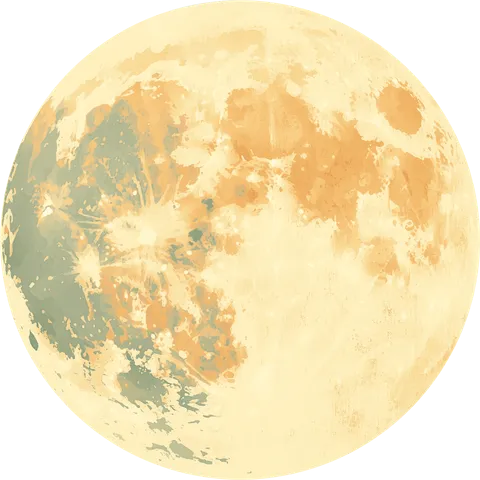
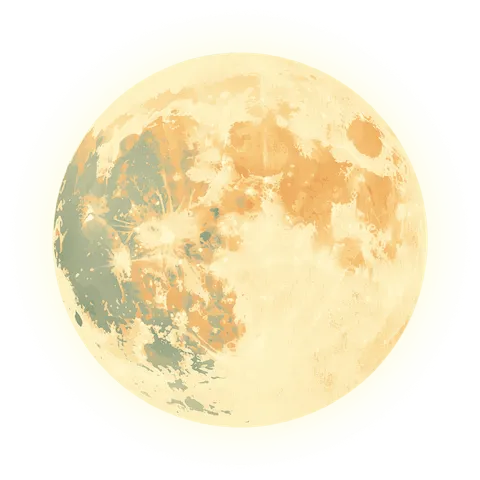
New 3D scene code which is cleaner and more focused

diff --git a/src/js/threeSkyScene.js b/src/js/threeSkyScene.js
@@ -1,0 +1,203 @@
+import * as THREE from 'three';
+import { EffectComposer } from 'three/examples/jsm/postprocessing/EffectComposer';
+import { RenderPass } from 'three/examples/jsm/postprocessing/RenderPass';
+import { UnrealBloomPass } from 'three/examples/jsm/postprocessing/UnrealBloomPass';
+import getDeviceInfo from './utils/deviceUtils';
+import { requestDeviceOrientation } from './utils/handleIosPermissions';
+
+function setupPostProcessing(renderer, scene, camera) {
+    const composer = new EffectComposer(renderer);
+    composer.addPass(new RenderPass(scene, camera));
+
+    const bloomPass = new UnrealBloomPass(
+        new THREE.Vector2(window.innerWidth, window.innerHeight),
+        0.4,
+        1,
+        0.75
+    );
+    composer.addPass(bloomPass);
+
+    return composer;
+}
+
+const cameraParams = {
+    desktop: {
+        fov: 75,
+        position: { x: 0, y: 1.5, z: 0 },
+        lookAt: { x: 0, y: 0.5, z: -50 },
+        maxTiltUp: THREE.MathUtils.degToRad(15), // ~20 degrees up
+        maxTiltDown: THREE.MathUtils.degToRad(-30)
+    },
+    mobile: {
+        fov: 60,
+        position: { x: 0, y: 4.5, z: 0 },
+        lookAt: { x: 0, y: 8, z: -40 },
+        maxTiltUp: THREE.MathUtils.degToRad(15), // ~22.5 degrees up
+        maxTiltDown: THREE.MathUtils.degToRad(-30) // ~22.5 degrees down
+    },
+};
+
+const objectParams = {
+    desktop: {
+        moon: { radius: 5 },
+        starrySky: { radius: 500 },
+    },
+    mobile: {
+        moon: { radius: 3.5 },
+        starrySky: { radius: 400 },
+    },
+};
+
+function addLighting(scene) {
+    const sun = new THREE.DirectionalLight(0xffd27f, 2);
+    sun.position.set(50, 100, -50);
+    sun.target.position.set(100, 50, -180);
+    sun.castShadow = true;
+
+    sun.shadow.mapSize.width = 2048;
+    sun.shadow.mapSize.height = 2048;
+    sun.shadow.camera.near = 0.5;
+    sun.shadow.camera.far = 500;
+    sun.shadow.bias = -0.0001;
+
+    scene.add(sun);
+    scene.add(sun.target);
+
+    const ambientLight = new THREE.AmbientLight(0xdfdfdf, 0.36);
+    scene.add(ambientLight);
+
+    const hemiLight = new THREE.HemisphereLight(0xffffcc, 0xdfdfdf, 0.8);
+    scene.add(hemiLight);
+}
+
+function loadStarrySky(isMobile) {
+    const skyRadius = isMobile ? objectParams.mobile.starrySky.radius : objectParams.desktop.starrySky.radius;
+    const geometry = new THREE.SphereGeometry(skyRadius, 64, 64);
+    const textureLoader = new THREE.TextureLoader();
+
+    const starrySkyTexture = textureLoader.load(new URL('../assets/images/starry-sky-background-original.webp', import.meta.url).href);
+    starrySkyTexture.encoding = THREE.sRGBEncoding;
+    const material = new THREE.MeshBasicMaterial({
+        map: starrySkyTexture,
+        side: THREE.BackSide,
+        toneMapped: false,
+    });
+
+    return new THREE.Mesh(geometry, material);
+}
+
+function loadMoon(isMobile) {
+    const moonRadius = isMobile ? objectParams.mobile.moon.radius : objectParams.desktop.moon.radius;
+    const geometry = new THREE.SphereGeometry(moonRadius, 64, 64);
+
+    const textureLoader = new THREE.TextureLoader();
+    const moonTexture = textureLoader.load(new URL('../assets/images/moon.jpg', import.meta.url).href);
+    moonTexture.encoding = THREE.sRGBEncoding;
+    moonTexture.anisotropy = 16;
+    const material = new THREE.MeshStandardMaterial({
+        map: moonTexture,
+        roughness: 0.8,
+        metalness: 0,
+        emissive: 0xFFF6A4,
+        emissiveIntensity: 0.5,
+    });
+
+    const moon = new THREE.Mesh(geometry, material);
+    moon.position.set(20, 10, -50);
+    moon.receiveShadow = true;
+    return moon;
+}
+
+export default function threeSkyScene(app, isMobile) {
+    const renderer = new THREE.WebGLRenderer({ antialias: true });
+    renderer.setSize(window.innerWidth, window.innerHeight);
+    renderer.setPixelRatio(window.devicePixelRatio);
+    renderer.toneMapping = THREE.ACESFilmicToneMapping;
+    renderer.toneMappingExposure = 0.25;
+    app.appendChild(renderer.domElement);
+
+    const scene = new THREE.Scene();
+    const camera = new THREE.PerspectiveCamera(
+        isMobile ? cameraParams.mobile.fov : cameraParams.desktop.fov,
+        window.innerWidth / window.innerHeight,
+        0.1,
+        1000
+    );
+
+    camera.position.set(
+        isMobile ? cameraParams.mobile.position.x : cameraParams.desktop.position.x,
+        isMobile ? cameraParams.mobile.position.y : cameraParams.desktop.position.y,
+        isMobile ? cameraParams.mobile.position.z : cameraParams.desktop.position.z
+    );
+
+    addLighting(scene);
+    const starrySky = loadStarrySky(isMobile);
+    const moon = loadMoon(isMobile);
+    scene.add(starrySky);
+    scene.add(moon);
+
+    const maxTiltUp = isMobile ? cameraParams.mobile.maxTiltUp : cameraParams.desktop.maxTiltUp;
+    const maxTiltDown = isMobile ? cameraParams.mobile.maxTiltDown : cameraParams.desktop.maxTiltDown;
+
+    let targetRotationX = 0;
+    let targetRotationY = 0;
+
+    const limitVerticalTilt = () => {
+        if (targetRotationX > maxTiltUp) targetRotationX = maxTiltUp;
+        if (targetRotationX < maxTiltDown) targetRotationX = maxTiltDown;
+    };
+
+    if (isMobile) {
+        window.addEventListener('deviceorientation', (event) => {
+            if (event.alpha && event.beta && event.gamma) {
+                targetRotationX = THREE.MathUtils.degToRad(event.beta - 90);
+                targetRotationY = THREE.MathUtils.degToRad(event.alpha);
+                limitVerticalTilt();
+            }
+        });
+
+        // Add gesture handling
+        let lastTouchX = 0;
+        let lastTouchY = 0;
+        window.addEventListener('touchstart', (event) => {
+            if (event.touches.length === 1) {
+                lastTouchX = event.touches[0].clientX;
+                lastTouchY = event.touches[0].clientY;
+            }
+        });
+        window.addEventListener('touchmove', (event) => {
+            if (event.touches.length === 1) {
+                const deltaX = event.touches[0].clientX - lastTouchX;
+                const deltaY = event.touches[0].clientY - lastTouchY;
+
+                targetRotationY += deltaX * 0.005;
+                targetRotationX += deltaY * 0.005;
+                limitVerticalTilt();
+
+                lastTouchX = event.touches[0].clientX;
+                lastTouchY = event.touches[0].clientY;
+            }
+        });
+
+        requestDeviceOrientation(() => {
+            window.addEventListener('deviceorientation', handleDeviceOrientation);
+        });
+    } else {
+        window.addEventListener('mousemove', (event) => {
+            targetRotationY = (event.clientX / window.innerWidth - 0.5) * Math.PI * 2;
+            targetRotationX = (event.clientY / window.innerHeight - 0.5) * Math.PI;
+            limitVerticalTilt();
+        });
+    }
+
+    const composer = setupPostProcessing(renderer, scene, camera);
+
+    function animate() {
+        camera.rotation.x += (targetRotationX - camera.rotation.x) * 0.075;
+        camera.rotation.y += (targetRotationY - camera.rotation.y) * 0.075;
+
+        composer.render();
+        requestAnimationFrame(animate);
+    }
+    animate();
+}

diff --git a/src/js/threeScene.js b/src/js/threeScene.js
@@ -38,56 +38,74 @@ const { isMobile } = getDeviceInfo();
 
 // Add the moon as a separate object to the scene
 const addMoonToScene = (scene) => {
+  // Load the moon texture and normal map
   const moonTexture = new THREE.TextureLoader().load(
-    new URL('../assets/images/moon-original.webp', import.meta.url).href
+    new URL('../assets/images/moon.jpg', import.meta.url).href
+  );
+  const moonNormalMap = new THREE.TextureLoader().load(
+    new URL('../assets/images/moon_normal.jpg', import.meta.url).href
   );
 
-  const moonGeometry = new THREE.SphereGeometry(56, 56, 24); // Radius and resolution
-  const moonMaterial = new THREE.MeshBasicMaterial({
+  // Create high-resolution sphere geometry
+  const moonGeometry = new THREE.SphereGeometry(100, 64, 64);
+
+  // Use a standard material for the moon with a normal map
+  const moonMaterial = new THREE.MeshStandardMaterial({
     map: moonTexture,
-    transparent: true,
-    depthTest: false,
-    roughness: 0.8,
-    metalness: 0.1,
+    normalMap: moonNormalMap, // Adds depth to craters
+    roughness: 0.6, // Matte finish for realism
+    metalness: 0.0, // No metallic sheen
   });
 
+  // Create the moon mesh
   const moon = new THREE.Mesh(moonGeometry, moonMaterial);
-  moon.rotation.x = Math.PI / 6; // Aggressive forward tilt
+  moon.rotation.x = Math.PI / 6; // Slight tilt for visual interest
 
-  // Moon adjustments for mobile
+  // Create a pivot for the moon
+  const moonPivot = new THREE.Object3D();
+  scene.add(moonPivot); // Add pivot to the scene
+  moonPivot.add(moon); // Add the moon to the pivot
+
+  // Position the moon relative to the pivot
   if (isMobile) {
-    moon.scale.set(6,6,1);
-    moon.position.set(-350, 2000, -4500);
+    moon.position.set(-350, 2000, -4500); // Mobile position
+    moon.scale.set(1.5, 1.5, 1.5); // Mobile scale
   } else {
-    moon.scale.set(3, 2.5, 0);
-    moon.position.set(-700, 700, -2000);
+    moon.position.set(-700, 700, -2000); // Desktop position
+    moon.scale.set(2, 2, 2); // Desktop scale
   }
 
-  // Add directional light for depth
-  const moonLight = new THREE.DirectionalLight(0xffffff, 1);
-  moonLight.castShadow = false;
-  moonLight.position.set(1000, 2000, -1000);
-  scene.add(moonLight);
-
-  // Create a pivot point for rotation
-  const moonPivot = new THREE.Object3D();
-  moonPivot.position.set(0, 0, 0);
-  moonPivot.add(moon);
-  scene.add(moonPivot);
-
-  // Use a lower opacity and NormalBlending for a subtler glow
-  const glowGeometry = new THREE.SphereGeometry(70, 64, 32);
+  // Add a glow effect around the moon
+  const glowGeometry = new THREE.SphereGeometry(115, 72, 72); // Slightly larger than the moon
   const glowMaterial = new THREE.MeshBasicMaterial({
-    color: 0xffffff,
+    color: 0xffffcc, // Pale yellow glow
     transparent: true,
-    opacity: 0.05,
-    blending: THREE.NormalBlending,
-    side: THREE.BackSide,
+    opacity: 0.3, // Glow visibility
+    side: THREE.BackSide, // Only visible from the outside
+    depthWrite: false, // Avoid depth conflicts
   });
-  const moonGlow = new THREE.Mesh(glowGeometry, glowMaterial);
-  moonPivot.add(moonGlow);
 
-  return moonPivot;
+  const moonGlow = new THREE.Mesh(glowGeometry, glowMaterial);
+  moon.add(moonGlow); // Attach glow to the moon
+  moonGlow.renderOrder = 1; // Ensure glow renders first
+
+  // Add ambient light for general illumination
+  const ambientLight = new THREE.AmbientLight(0xffffff, 0.8); // Softer ambient light
+  scene.add(ambientLight);
+
+  // Add a directional light to simulate sunlight
+  const sunlight = new THREE.DirectionalLight(0xffffff, 1.5); // Simulate sunlight
+  sunlight.position.set(1000, 1000, -1000); // Sun position
+  sunlight.castShadow = false; // Shadows not needed
+  scene.add(sunlight);
+
+  // Function to rotate the moon pivot with the scene
+  const animateMoon = (xRotation, yRotation) => {
+    moonPivot.rotation.y = xRotation; // Rotate horizontally
+    moonPivot.rotation.x = yRotation; // Rotate vertically
+  };
+
+  return { moonPivot, animateMoon };
 };
 
 export const initThreeScene = (app, isMobile) => {
@@ -142,9 +160,6 @@ export const initThreeScene = (app, isMobile) => {
 
   const skySphere = createSkySphere();
   scene.add(skySphere);
-
-  // Add the moon
-  const moonPivot = addMoonToScene(scene);
 
   // Setup camera
   const setupCamera = () => {
@@ -273,15 +288,23 @@ export const initThreeScene = (app, isMobile) => {
     handleInput(deltaX, deltaY);
   });
 
-  const animate = () => {
-    xRotation = lerp(xRotation, targetXRotation, 0.15); // Smooth transition
-    yRotation = lerp(yRotation, targetYRotation, 0.1);
-    skySphere.rotation.y = xRotation;
-    skySphere.rotation.x = yRotation;
-    moonPivot.rotation.y = xRotation;
-    moonPivot.rotation.x = yRotation;
-    composer.render();
-    requestAnimationFrame(animate);
-  };
-  animate();
+  const { moonPivot, animateMoon } = addMoonToScene(scene);
+
+const animate = () => {
+  // Smoothly interpolate rotations
+  xRotation = lerp(xRotation, targetXRotation, 0.15);
+  yRotation = lerp(yRotation, targetYRotation, 0.1);
+
+  // Rotate the sky sphere
+  skySphere.rotation.y = xRotation;
+  skySphere.rotation.x = yRotation;
+
+  // Synchronize the moon's pivot with the scene
+  animateMoon(xRotation, yRotation);
+
+  // Render the scene
+  composer.render();
+  requestAnimationFrame(animate);
+};
+animate();
 };

diff --git a/src/js/views/home.js b/src/js/views/home.js
@@ -3,7 +3,7 @@ import getDeviceInfo from '../utils/deviceUtils.js';
 import { createPictureElement } from '../utils/imageUtils.js';
 import { gsap } from 'gsap';
 import { createFloatingAnimation } from '../utils/floatingAnimation.js';
-import { initThreeScene } from '../threeScene.js';
+import threeSkyScene from '../threeSkyScene.js';
 import { createCrowdScene } from '../components/crowdScene';
 import { createButton } from '../components/Button.js';
 
@@ -81,7 +81,7 @@ export const home = () => {
     }, false);
 
     // Initialize the Three.js scene
-    initThreeScene(mainContainer, isMobile, oS, deviceType, browser); // Pass app & isMobile as needed
+    threeSkyScene(mainContainer, isMobile, oS, deviceType, browser); // Pass app & isMobile as needed
 
     // Create the crowd scene
     createCrowdScene(mainContainer);
